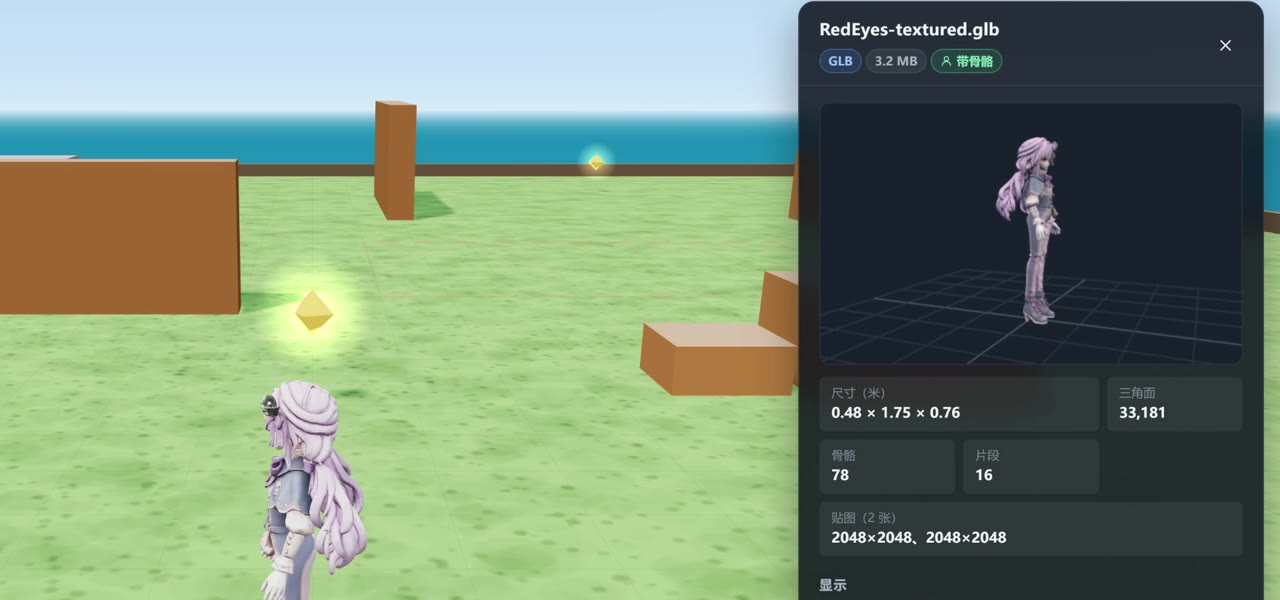
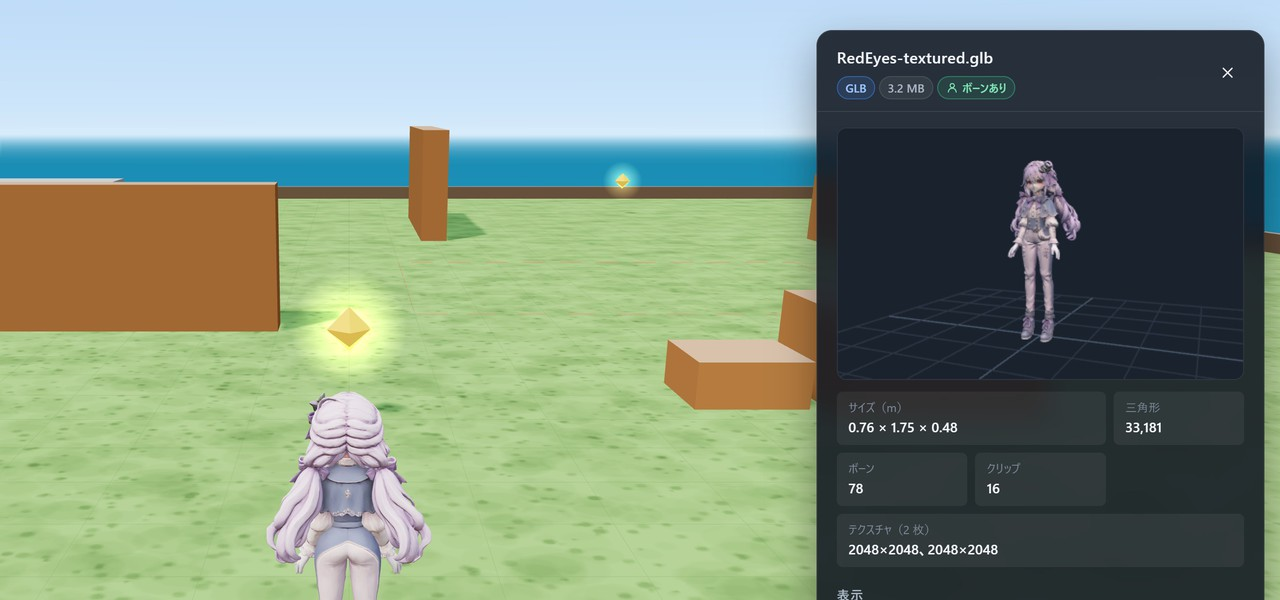
README：换成重录的介绍视频（日语界面）和配图
- 视频链接换成 https://youtu.be/4zSBDaET-JA（日语界面重录，主角转正后背朝镜头跑）
- docs/media 的 6 张图换成重录的素材（日语界面）
- “截图和视频是中文界面”那句改成日语界面

diff --git a/README.en.md b/README.en.md
@@ -11,7 +11,7 @@
 <p align="center"><b>Write one sentence, get a 3D level you can play.</b></p>
 
 <p align="center">
-  <a href="https://youtu.be/nlM76iN8KgE">Demo video</a> ·
+  <a href="https://youtu.be/4zSBDaET-JA">Demo video</a> ·
   <a href="docs/how-it-works.en.md">How the Level Workshop works</a> ·
   <a href="docs/guide.en.md">Playing and settings</a>
 </p>
@@ -24,7 +24,7 @@ Everything runs on your own machine. The game is three.js, the workshop service 
 
 ## Demo
 
-[![Intro video (Japanese captions)](docs/media/video-ja.jpg)](https://youtu.be/nlM76iN8KgE)
+[![Intro video (Japanese captions)](docs/media/video-ja.jpg)](https://youtu.be/4zSBDaET-JA)
 
 A one-minute intro video with Japanese captions: import a character, write a sentence, look at the preview, confirm, play the level.
 
@@ -35,7 +35,7 @@ A one-minute intro video with Japanese captions: import a character, write a sen
 | ![Preview](docs/media/preview.jpg) | ![Level cleared](docs/media/clear.jpg) |
 | Preview first. Nothing is saved until you confirm | All gems collected |
 
-<sub>The interface can be switched between English, Japanese and Chinese. The screenshots and the video above show the Chinese one.</sub>
+<sub>The interface can be switched between English, Japanese and Chinese. The screenshots and the video above show the Japanese one.</sub>
 
 ## What it does
 

diff --git a/README.md b/README.md
@@ -11,7 +11,7 @@
 <p align="center"><b>一文で、遊べる 3D ステージを。</b></p>
 
 <p align="center">
-  <a href="https://youtu.be/nlM76iN8KgE">デモ動画</a> ·
+  <a href="https://youtu.be/4zSBDaET-JA">デモ動画</a> ·
   <a href="docs/how-it-works.md">レベル工房のしくみ</a> ·
   <a href="docs/guide.md">遊び方と設定</a>
 </p>
@@ -24,7 +24,7 @@
 
 ## デモ
 
-[![紹介動画（日本語字幕）](docs/media/video-ja.jpg)](https://youtu.be/nlM76iN8KgE)
+[![紹介動画（日本語字幕）](docs/media/video-ja.jpg)](https://youtu.be/4zSBDaET-JA)
 
 1 分ほどの紹介動画です。キャラクターの読み込み、一文での依頼、プレビュー、確定、プレイまでを通しています。
 
@@ -35,7 +35,7 @@
 | ![プレビュー](docs/media/preview.jpg) | ![クリア](docs/media/clear.jpg) |
 | まずプレビュー。確定するまで保存されません | 宝石を全部集めてクリア |
 
-<sub>画面は日本語・英語・中国語に切り替えられます。上のスクリーンショットと動画は中国語の画面です。</sub>
+<sub>画面は日本語・英語・中国語に切り替えられます。上のスクリーンショットと動画は日本語の画面です。</sub>
 
 ## できること
 

diff --git a/README.zh.md b/README.zh.md
@@ -11,7 +11,7 @@
 <p align="center"><b>写一句话，生成一关能玩的 3D 关卡。</b></p>
 
 <p align="center">
-  <a href="https://youtu.be/nlM76iN8KgE">演示视频</a> ·
+  <a href="https://youtu.be/4zSBDaET-JA">演示视频</a> ·
   <a href="docs/how-it-works.zh.md">关卡工坊怎么做的</a> ·
   <a href="docs/guide.zh.md">玩法和设置</a>
 </p>
@@ -24,7 +24,7 @@
 
 ## 演示
 
-[![介绍视频（日语字幕）](docs/media/video-ja.jpg)](https://youtu.be/nlM76iN8KgE)
+[![介绍视频（日语字幕）](docs/media/video-ja.jpg)](https://youtu.be/4zSBDaET-JA)
 
 一分钟左右的介绍视频（日语字幕）：导入角色、写一句话、看预览、确认、玩完一关。
 
@@ -35,7 +35,7 @@
 | ![预览](docs/media/preview.jpg) | ![过关](docs/media/clear.jpg) |
 | 先看预览，确认了才保存 | 宝石收齐，过关 |
 
-<sub>界面可以切换中文、日语、英语。上面的截图和视频里是中文界面。</sub>
+<sub>界面可以切换中文、日语、英语。上面的截图和视频里是日语界面。</sub>
 
 ## 能做什么
 
